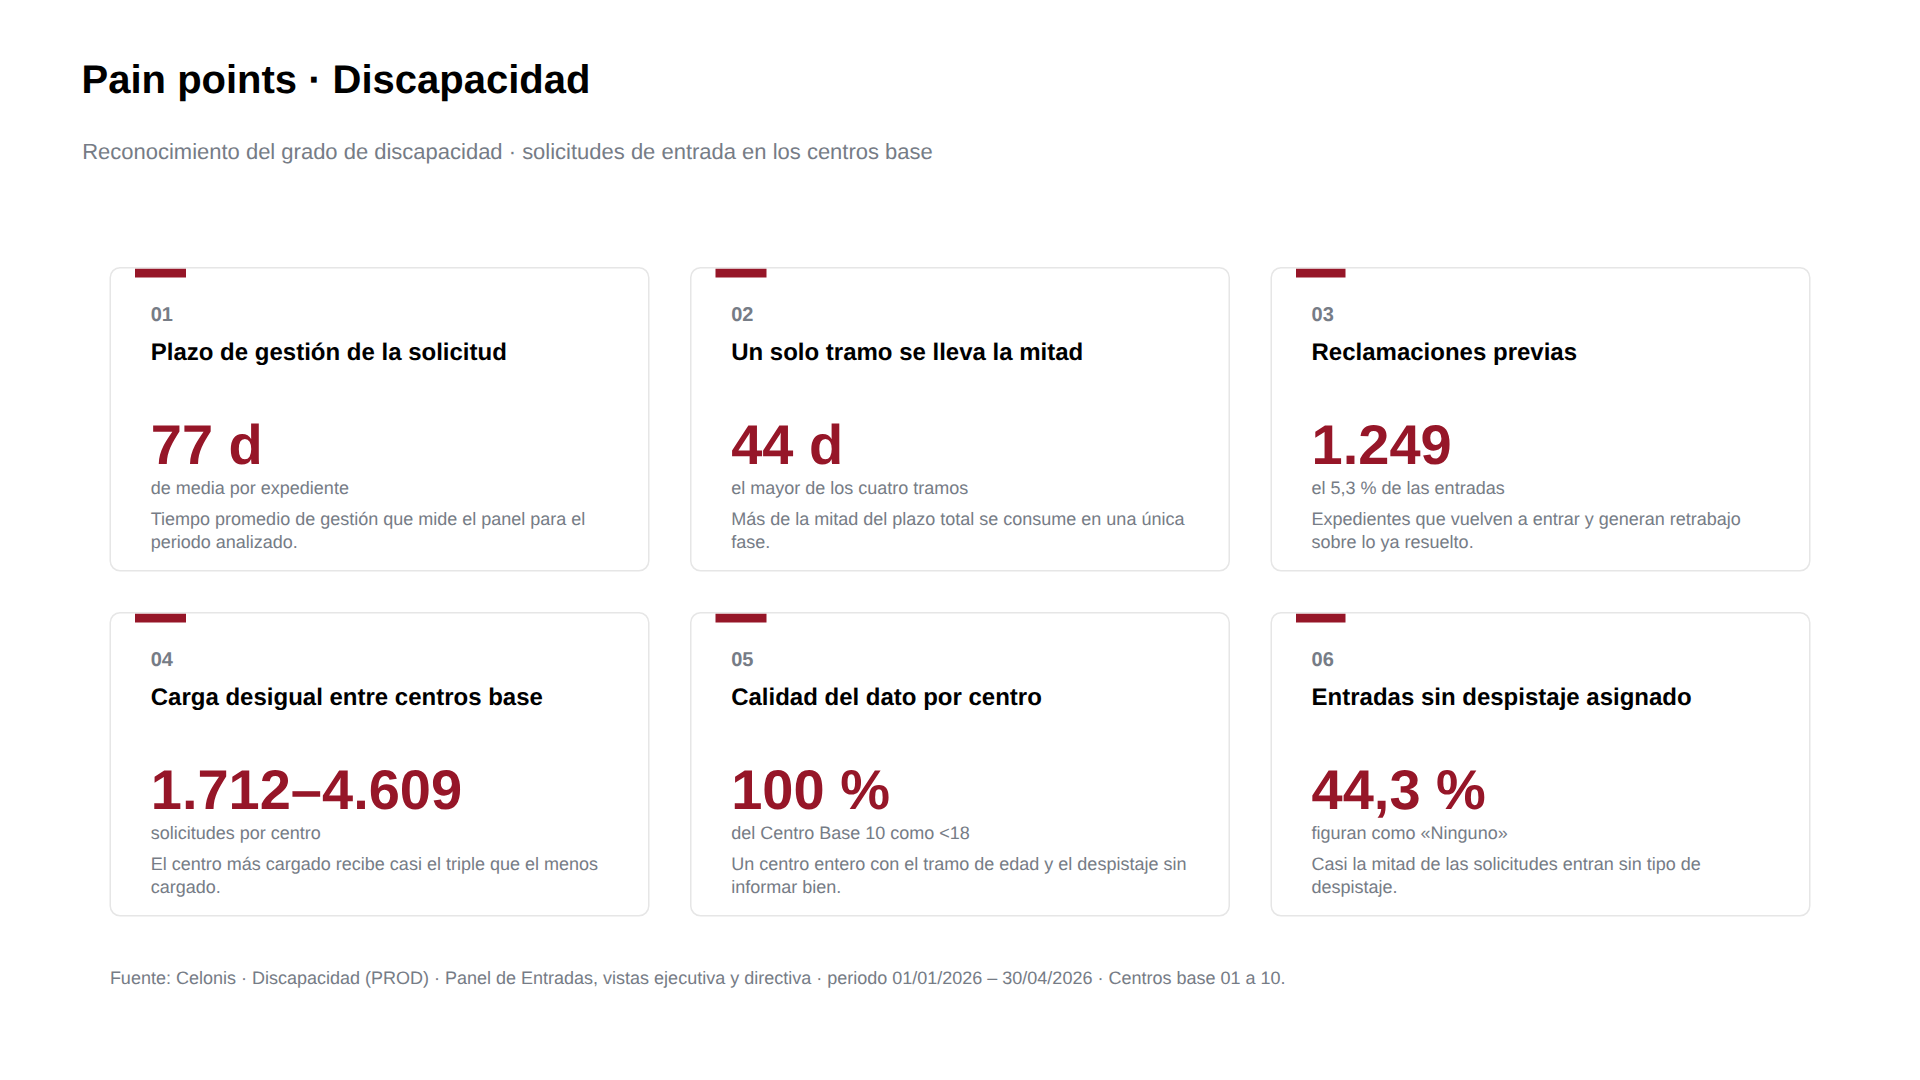
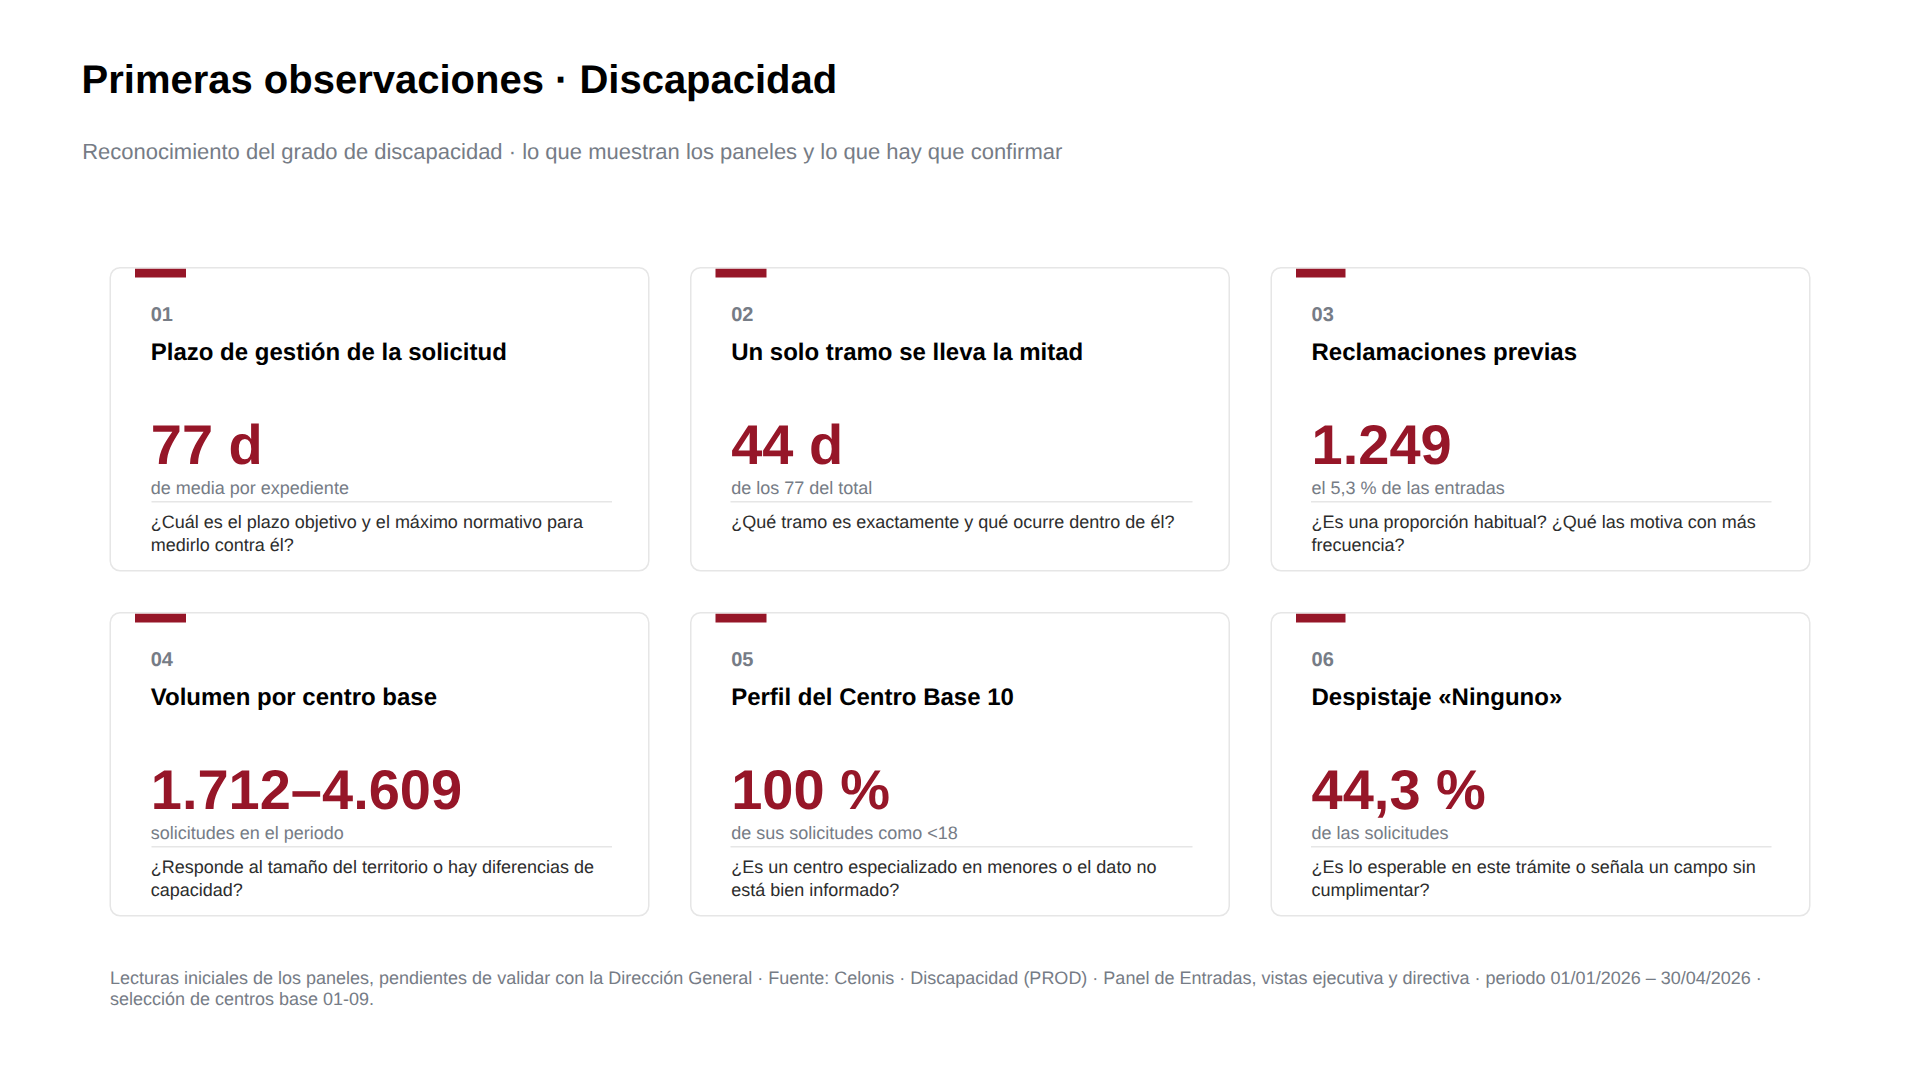
Discapacidad pasa de pain points a primeras observaciones
De las seis lecturas de los paneles solo una se sostiene como dolor sin
información adicional: el resto depende de datos que no tenemos —plazo
normativo, naturaleza del Centro Base 10, si el despistaje «Ninguno» es
legítimo y la capacidad por centro—.

La diapositiva mantiene las cifras pero sustituye la conclusión por la
pregunta abierta, y los títulos dejan de juzgar: «Volumen por centro
base» en lugar de «carga desigual», «Perfil del Centro Base 10» en lugar
de «calidad del dato».

Claude-Session: https://claude.ai/code/session_012PCcGQXYr4PR8xb2pBrhox

diff --git a/deck/preview_disca.html b/deck/preview_disca.html
@@ -9,41 +9,48 @@ body{background:#5a5a5a;font-family:'Century Gothic','Questrial','Futura','Trebu
 .ti{position:absolute;font-size:12pt;font-weight:700;color:#000;line-height:1.15}
 .ci{position:absolute;font-size:28pt;font-weight:700;color:#961628;line-height:1}
 .un{position:absolute;font-size:9pt;color:#767C86}
-.cx{position:absolute;font-size:9pt;color:#767C86;line-height:1.25}
-.pie{position:absolute;font-size:9pt;color:#767C86}</style><div class="sl"><div class="t">Pain points · Discapacidad</div><div class="s">Reconocimiento del grado de discapacidad · solicitudes de entrada en los centros base</div><div class="card" style="left:73.26px;top:178.48px;width:359.63px;height:202.62px">
+.ln{position:absolute;height:1px;background:#E6E6E6}
+.q{position:absolute;font-size:9pt;color:#2D2D2D;line-height:1.25}
+.pie{position:absolute;font-size:9pt;color:#767C86}</style><div class="sl"><div class="t">Primeras observaciones · Discapacidad</div><div class="s">Reconocimiento del grado de discapacidad · lo que muestran los paneles y lo que hay que confirmar</div><div class="card" style="left:73.26px;top:178.48px;width:359.63px;height:202.62px">
 <div class="bar" style="left:15.75px;width:33.6px;height:5.46px"></div>
 <div class="n" style="left:26.25px;top:22.57px">01</div>
 <div class="ti" style="left:26.25px;top:47.24px;width:307.13px">Plazo de gestión de la solicitud</div>
 <div class="ci" style="left:26.25px;top:98.69px;width:307.13px">77 d</div>
 <div class="un" style="left:26.25px;top:138.58px;width:307.13px">de media por expediente</div>
-<div class="cx" style="left:26.25px;top:159.58px;width:307.13px">Tiempo promedio de gestión que mide el panel para el periodo analizado.</div></div><div class="card" style="left:460.19px;top:178.48px;width:359.63px;height:202.62px">
+<div class="ln" style="left:26.25px;top:154.33px;width:307.13px"></div>
+<div class="q" style="left:26.25px;top:161.15px;width:307.13px">¿Cuál es el plazo objetivo y el máximo normativo para medirlo contra él?</div></div><div class="card" style="left:460.19px;top:178.48px;width:359.63px;height:202.62px">
 <div class="bar" style="left:15.75px;width:33.6px;height:5.46px"></div>
 <div class="n" style="left:26.25px;top:22.57px">02</div>
 <div class="ti" style="left:26.25px;top:47.24px;width:307.13px">Un solo tramo se lleva la mitad</div>
 <div class="ci" style="left:26.25px;top:98.69px;width:307.13px">44 d</div>
-<div class="un" style="left:26.25px;top:138.58px;width:307.13px">el mayor de los cuatro tramos</div>
-<div class="cx" style="left:26.25px;top:159.58px;width:307.13px">Más de la mitad del plazo total se consume en una única fase.</div></div><div class="card" style="left:847.11px;top:178.48px;width:359.63px;height:202.62px">
+<div class="un" style="left:26.25px;top:138.58px;width:307.13px">de los 77 del total</div>
+<div class="ln" style="left:26.25px;top:154.33px;width:307.13px"></div>
+<div class="q" style="left:26.25px;top:161.15px;width:307.13px">¿Qué tramo es exactamente y qué ocurre dentro de él?</div></div><div class="card" style="left:847.11px;top:178.48px;width:359.63px;height:202.62px">
 <div class="bar" style="left:15.75px;width:33.6px;height:5.46px"></div>
 <div class="n" style="left:26.25px;top:22.57px">03</div>
 <div class="ti" style="left:26.25px;top:47.24px;width:307.13px">Reclamaciones previas</div>
 <div class="ci" style="left:26.25px;top:98.69px;width:307.13px">1.249</div>
 <div class="un" style="left:26.25px;top:138.58px;width:307.13px">el 5,3 % de las entradas</div>
-<div class="cx" style="left:26.25px;top:159.58px;width:307.13px">Expedientes que vuelven a entrar y generan retrabajo sobre lo ya resuelto.</div></div><div class="card" style="left:73.26px;top:408.4px;width:359.63px;height:202.62px">
+<div class="ln" style="left:26.25px;top:154.33px;width:307.13px"></div>
+<div class="q" style="left:26.25px;top:161.15px;width:307.13px">¿Es una proporción habitual? ¿Qué las motiva con más frecuencia?</div></div><div class="card" style="left:73.26px;top:408.4px;width:359.63px;height:202.62px">
 <div class="bar" style="left:15.75px;width:33.6px;height:5.46px"></div>
 <div class="n" style="left:26.25px;top:22.57px">04</div>
-<div class="ti" style="left:26.25px;top:47.24px;width:307.13px">Carga desigual entre centros base</div>
+<div class="ti" style="left:26.25px;top:47.24px;width:307.13px">Volumen por centro base</div>
 <div class="ci" style="left:26.25px;top:98.69px;width:307.13px">1.712–4.609</div>
-<div class="un" style="left:26.25px;top:138.58px;width:307.13px">solicitudes por centro</div>
-<div class="cx" style="left:26.25px;top:159.58px;width:307.13px">El centro más cargado recibe casi el triple que el menos cargado.</div></div><div class="card" style="left:460.19px;top:408.4px;width:359.63px;height:202.62px">
+<div class="un" style="left:26.25px;top:138.58px;width:307.13px">solicitudes en el periodo</div>
+<div class="ln" style="left:26.25px;top:154.33px;width:307.13px"></div>
+<div class="q" style="left:26.25px;top:161.15px;width:307.13px">¿Responde al tamaño del territorio o hay diferencias de capacidad?</div></div><div class="card" style="left:460.19px;top:408.4px;width:359.63px;height:202.62px">
 <div class="bar" style="left:15.75px;width:33.6px;height:5.46px"></div>
 <div class="n" style="left:26.25px;top:22.57px">05</div>
-<div class="ti" style="left:26.25px;top:47.24px;width:307.13px">Calidad del dato por centro</div>
+<div class="ti" style="left:26.25px;top:47.24px;width:307.13px">Perfil del Centro Base 10</div>
 <div class="ci" style="left:26.25px;top:98.69px;width:307.13px">100 %</div>
-<div class="un" style="left:26.25px;top:138.58px;width:307.13px">del Centro Base 10 como &lt;18</div>
-<div class="cx" style="left:26.25px;top:159.58px;width:307.13px">Un centro entero con el tramo de edad y el despistaje sin informar bien.</div></div><div class="card" style="left:847.11px;top:408.4px;width:359.63px;height:202.62px">
+<div class="un" style="left:26.25px;top:138.58px;width:307.13px">de sus solicitudes como &lt;18</div>
+<div class="ln" style="left:26.25px;top:154.33px;width:307.13px"></div>
+<div class="q" style="left:26.25px;top:161.15px;width:307.13px">¿Es un centro especializado en menores o el dato no está bien informado?</div></div><div class="card" style="left:847.11px;top:408.4px;width:359.63px;height:202.62px">
 <div class="bar" style="left:15.75px;width:33.6px;height:5.46px"></div>
 <div class="n" style="left:26.25px;top:22.57px">06</div>
-<div class="ti" style="left:26.25px;top:47.24px;width:307.13px">Entradas sin despistaje asignado</div>
+<div class="ti" style="left:26.25px;top:47.24px;width:307.13px">Despistaje «Ninguno»</div>
 <div class="ci" style="left:26.25px;top:98.69px;width:307.13px">44,3 %</div>
-<div class="un" style="left:26.25px;top:138.58px;width:307.13px">figuran como «Ninguno»</div>
-<div class="cx" style="left:26.25px;top:159.58px;width:307.13px">Casi la mitad de las solicitudes entran sin tipo de despistaje.</div></div><div class="pie" style="left:73.26px;top:644.62px;width:1133.47px">Fuente: Celonis · Discapacidad (PROD) · Panel de Entradas, vistas ejecutiva y directiva · periodo 01/01/2026 – 30/04/2026 · Centros base 01 a 10.</div></div>
+<div class="un" style="left:26.25px;top:138.58px;width:307.13px">de las solicitudes</div>
+<div class="ln" style="left:26.25px;top:154.33px;width:307.13px"></div>
+<div class="q" style="left:26.25px;top:161.15px;width:307.13px">¿Es lo esperable en este trámite o señala un campo sin cumplimentar?</div></div><div class="pie" style="left:73.26px;top:644.62px;width:1133.47px">Lecturas iniciales de los paneles, pendientes de validar con la Dirección General · Fuente: Celonis · Discapacidad (PROD) · Panel de Entradas, vistas ejecutiva y directiva · periodo 01/01/2026 – 30/04/2026 · selección de centros base 01-09.</div></div>

diff --git a/deck/build_discapacidad.py b/deck/build_discapacidad.py
@@ -17,6 +17,7 @@ GRIS    = RGBColor(0x76, 0x7C, 0x86)
 BORDE   = RGBColor(0xE6, 0xE6, 0xE6)
 NEGRO   = RGBColor(0x00, 0x00, 0x00)
 BLANCO  = RGBColor(0xFF, 0xFF, 0xFF)
+PREG    = RGBColor(0x2D, 0x2D, 0x2D)   # la pregunta, algo más marcada
 FUENTE  = 'Century Gothic'
 
 MX, GAP, COLS = 697841, 260000, 3
@@ -43,7 +44,7 @@ def txt(cont, x, y, cx, cy, partes, align=PP_ALIGN.LEFT, interlineado=None):
     return tb
 
 
-def tarjeta(s, x, y, n, titulo, cifra, unidad, contexto):
+def tarjeta(s, x, y, n, titulo, cifra, unidad, contexto, pregunta=False):
     card = s.shapes.add_shape(MSO_SHAPE.ROUNDED_RECTANGLE,
                               Emu(x), Emu(y), Emu(CARD_W), Emu(CARD_H))
     card.adjustments[0] = 0.04
@@ -65,11 +66,17 @@ def tarjeta(s, x, y, n, titulo, cifra, unidad, contexto):
         [(cifra, True, GRANATE, 28)])
     txt(s, x + PAD, y + 1320000, CARD_W - 2 * PAD, 200000,
         [(unidad, False, GRIS, 9)])
-    txt(s, x + PAD, y + 1520000, CARD_W - 2 * PAD, 340000,
-        [(contexto, False, GRIS, 9)], interlineado=1.25)
+    if pregunta:
+        ln = s.shapes.add_shape(MSO_SHAPE.RECTANGLE, Emu(x + PAD), Emu(y + 1470000),
+                                Emu(CARD_W - 2 * PAD), Emu(9525))
+        ln.fill.solid(); ln.fill.fore_color.rgb = BORDE
+        ln.line.fill.background(); ln.shadow.inherit = False
+        ln.text_frame.text = ''
+    txt(s, x + PAD, y + 1535000, CARD_W - 2 * PAD, 340000,
+        [(contexto, False, PREG if pregunta else GRIS, 9)], interlineado=1.25)
 
 
-def slide_dolores(prs, layout, titulo, subtitulo, dolores, pie=None):
+def slide_dolores(prs, layout, titulo, subtitulo, dolores, pie=None, preguntas=False):
     s = prs.slides.add_slide(layout)
     for ph in list(s.placeholders):
         if ph.placeholder_format.type != PP_PLACEHOLDER.SLIDE_NUMBER:
@@ -79,7 +86,7 @@ def slide_dolores(prs, layout, titulo, subtitulo, dolores, pie=None):
     for i, (t, c, u, ctx) in enumerate(dolores):
         col, fila = i % COLS, i // COLS
         tarjeta(s, MX + col * (CARD_W + GAP), TOP + fila * (CARD_H + GAP),
-                i + 1, t, c, u, ctx)
+                i + 1, t, c, u, ctx, pregunta=preguntas)
     if pie:
         txt(s, MX, TOP + 2 * (CARD_H + GAP) + 60000, 12192000 - 2 * MX, 300000,
             [(pie, False, GRIS, 9)])
@@ -93,25 +100,26 @@ def slide_dolores(prs, layout, titulo, subtitulo, dolores, pie=None):
 DISCA = [
     ('Plazo de gestión de la solicitud',
      '77 d', 'de media por expediente',
-     'Tiempo promedio de gestión que mide el panel para el periodo analizado.'),
+     '¿Cuál es el plazo objetivo y el máximo normativo para medirlo contra él?'),
     ('Un solo tramo se lleva la mitad',
-     '44 d', 'el mayor de los cuatro tramos',
-     'Más de la mitad del plazo total se consume en una única fase.'),
+     '44 d', 'de los 77 del total',
+     '¿Qué tramo es exactamente y qué ocurre dentro de él?'),
     ('Reclamaciones previas',
      '1.249', 'el 5,3 % de las entradas',
-     'Expedientes que vuelven a entrar y generan retrabajo sobre lo ya resuelto.'),
-    ('Carga desigual entre centros base',
-     '1.712–4.609', 'solicitudes por centro',
-     'El centro más cargado recibe casi el triple que el menos cargado.'),
-    ('Calidad del dato por centro',
-     '100 %', 'del Centro Base 10 como <18',
-     'Un centro entero con el tramo de edad y el despistaje sin informar bien.'),
-    ('Entradas sin despistaje asignado',
-     '44,3 %', 'figuran como «Ninguno»',
-     'Casi la mitad de las solicitudes entran sin tipo de despistaje.'),
+     '¿Es una proporción habitual? ¿Qué las motiva con más frecuencia?'),
+    ('Volumen por centro base',
+     '1.712–4.609', 'solicitudes en el periodo',
+     '¿Responde al tamaño del territorio o hay diferencias de capacidad?'),
+    ('Perfil del Centro Base 10',
+     '100 %', 'de sus solicitudes como <18',
+     '¿Es un centro especializado en menores o el dato no está bien informado?'),
+    ('Despistaje «Ninguno»',
+     '44,3 %', 'de las solicitudes',
+     '¿Es lo esperable en este trámite o señala un campo sin cumplimentar?'),
 ]
-PIE = ('Fuente: Celonis · Discapacidad (PROD) · Panel de Entradas, vistas ejecutiva y directiva · '
-       'periodo 01/01/2026 – 30/04/2026 · Centros base 01 a 10.')
+PIE = ('Lecturas iniciales de los paneles, pendientes de validar con la Dirección General · '
+       'Fuente: Celonis · Discapacidad (PROD) · Panel de Entradas, vistas ejecutiva y directiva · '
+       'periodo 01/01/2026 – 30/04/2026 · selección de centros base 01-09.')
 
 prs = Presentation('entrada.pptx')
 layout = prs.slide_masters[0].slide_layouts[3]
@@ -123,13 +131,15 @@ for par in ph.text_frame.paragraphs:
     t = ''.join(r.text for r in par.runs)
     if t.strip().startswith('4. Próximos pasos'):
         par.runs[0].text = '3. Próximos pasos'
+    if t.strip().startswith('2. Pain points · Discapacidad'):
+        par.runs[0].text = '2. Primeras observaciones · Discapacidad'
         for r in par.runs[1:]:
             r.text = ''
 
 slide_dolores(prs, layout,
-              'Pain points · Discapacidad',
-              'Reconocimiento del grado de discapacidad · solicitudes de entrada en los centros base',
-              DISCA, PIE)
+              'Primeras observaciones · Discapacidad',
+              'Reconocimiento del grado de discapacidad · lo que muestran los paneles y lo que hay que confirmar',
+              DISCA, PIE, preguntas=True)
 
 # ── orden: portada, índice, CU1, CU2, Discapacidad, cierre ──────────────
 lst = prs.slides._sldIdLst
